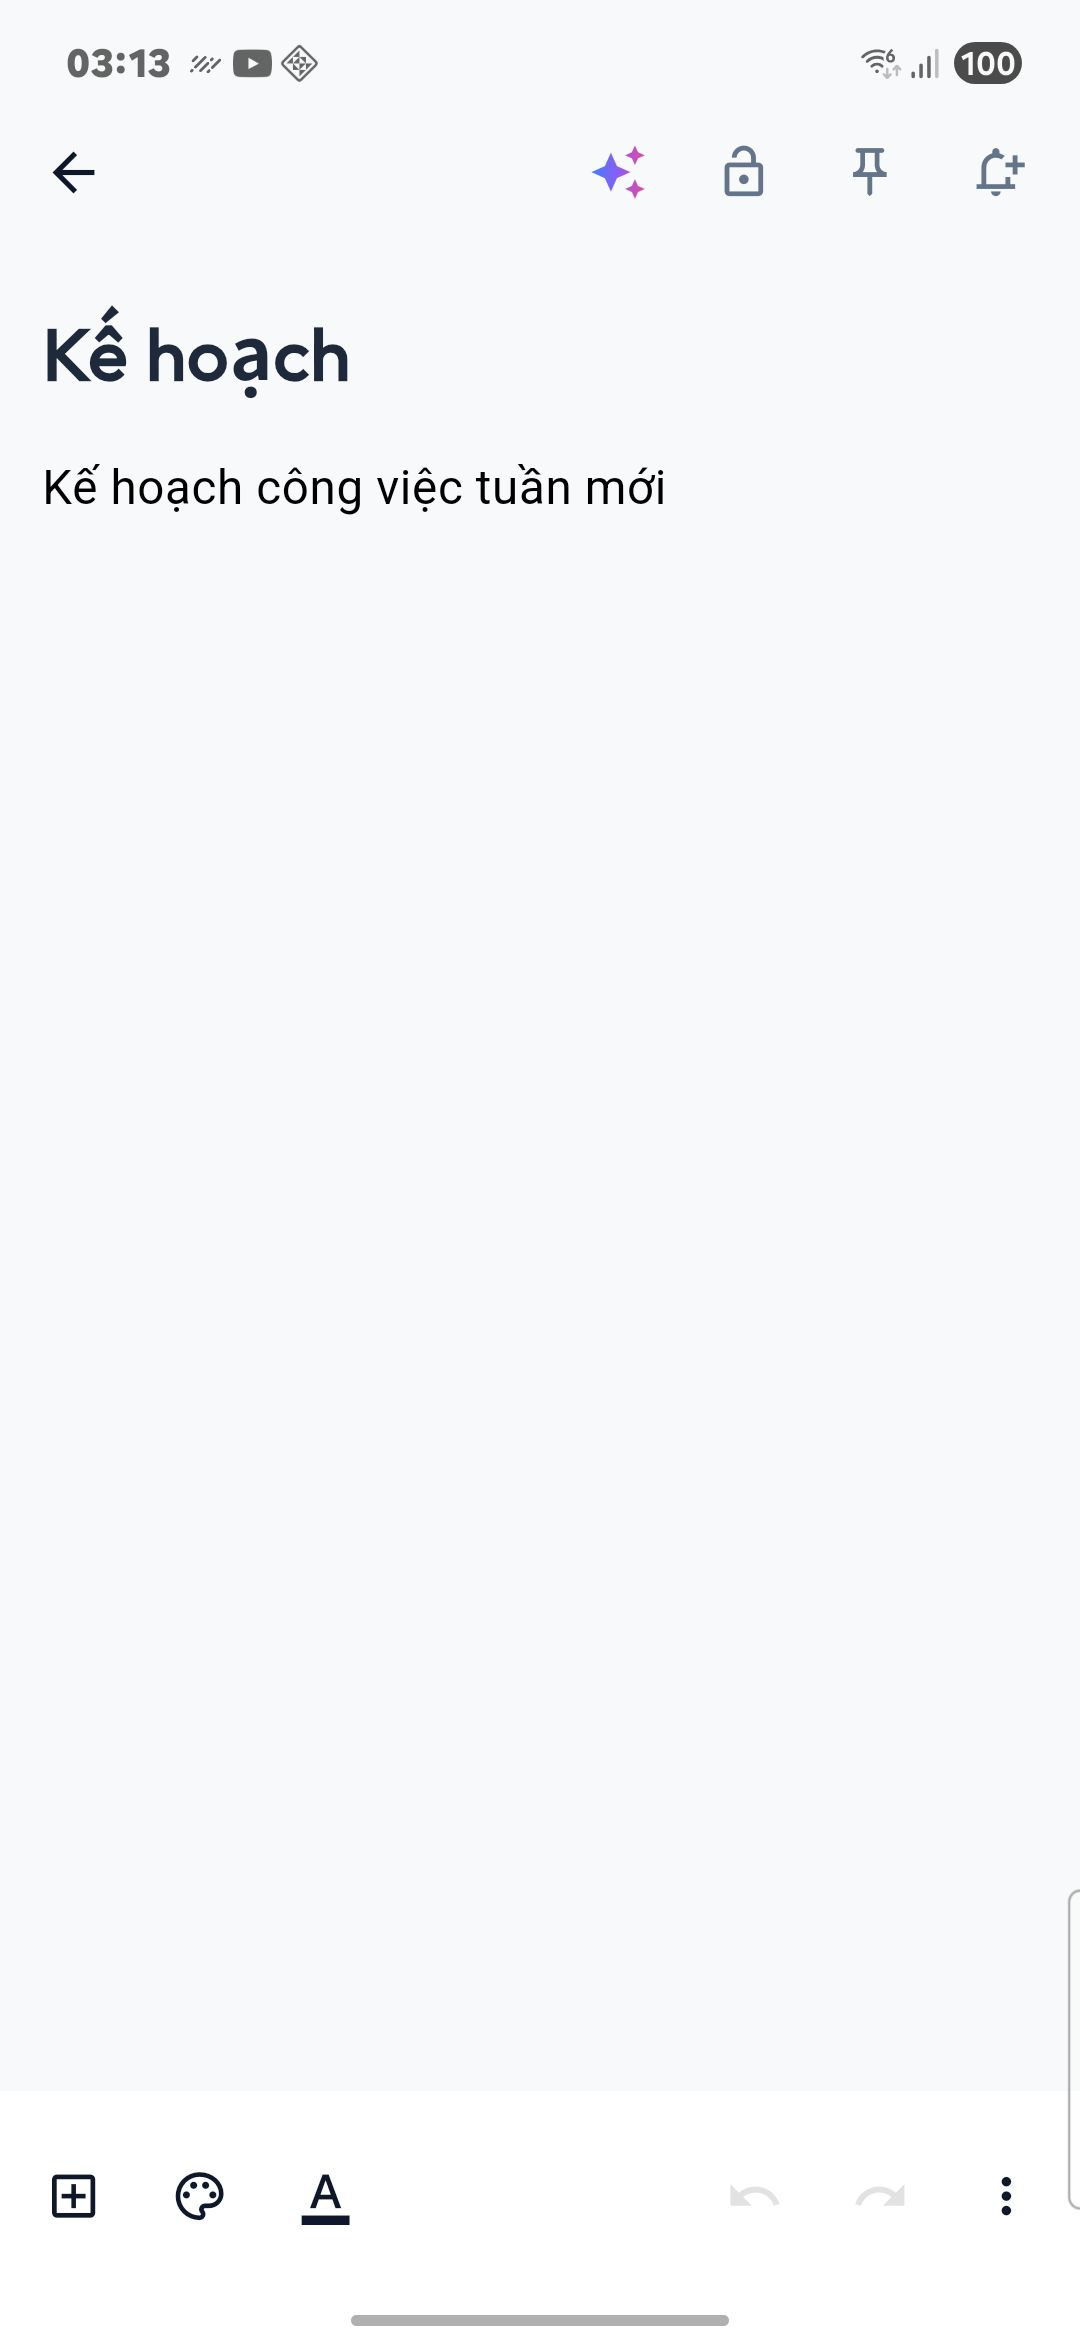
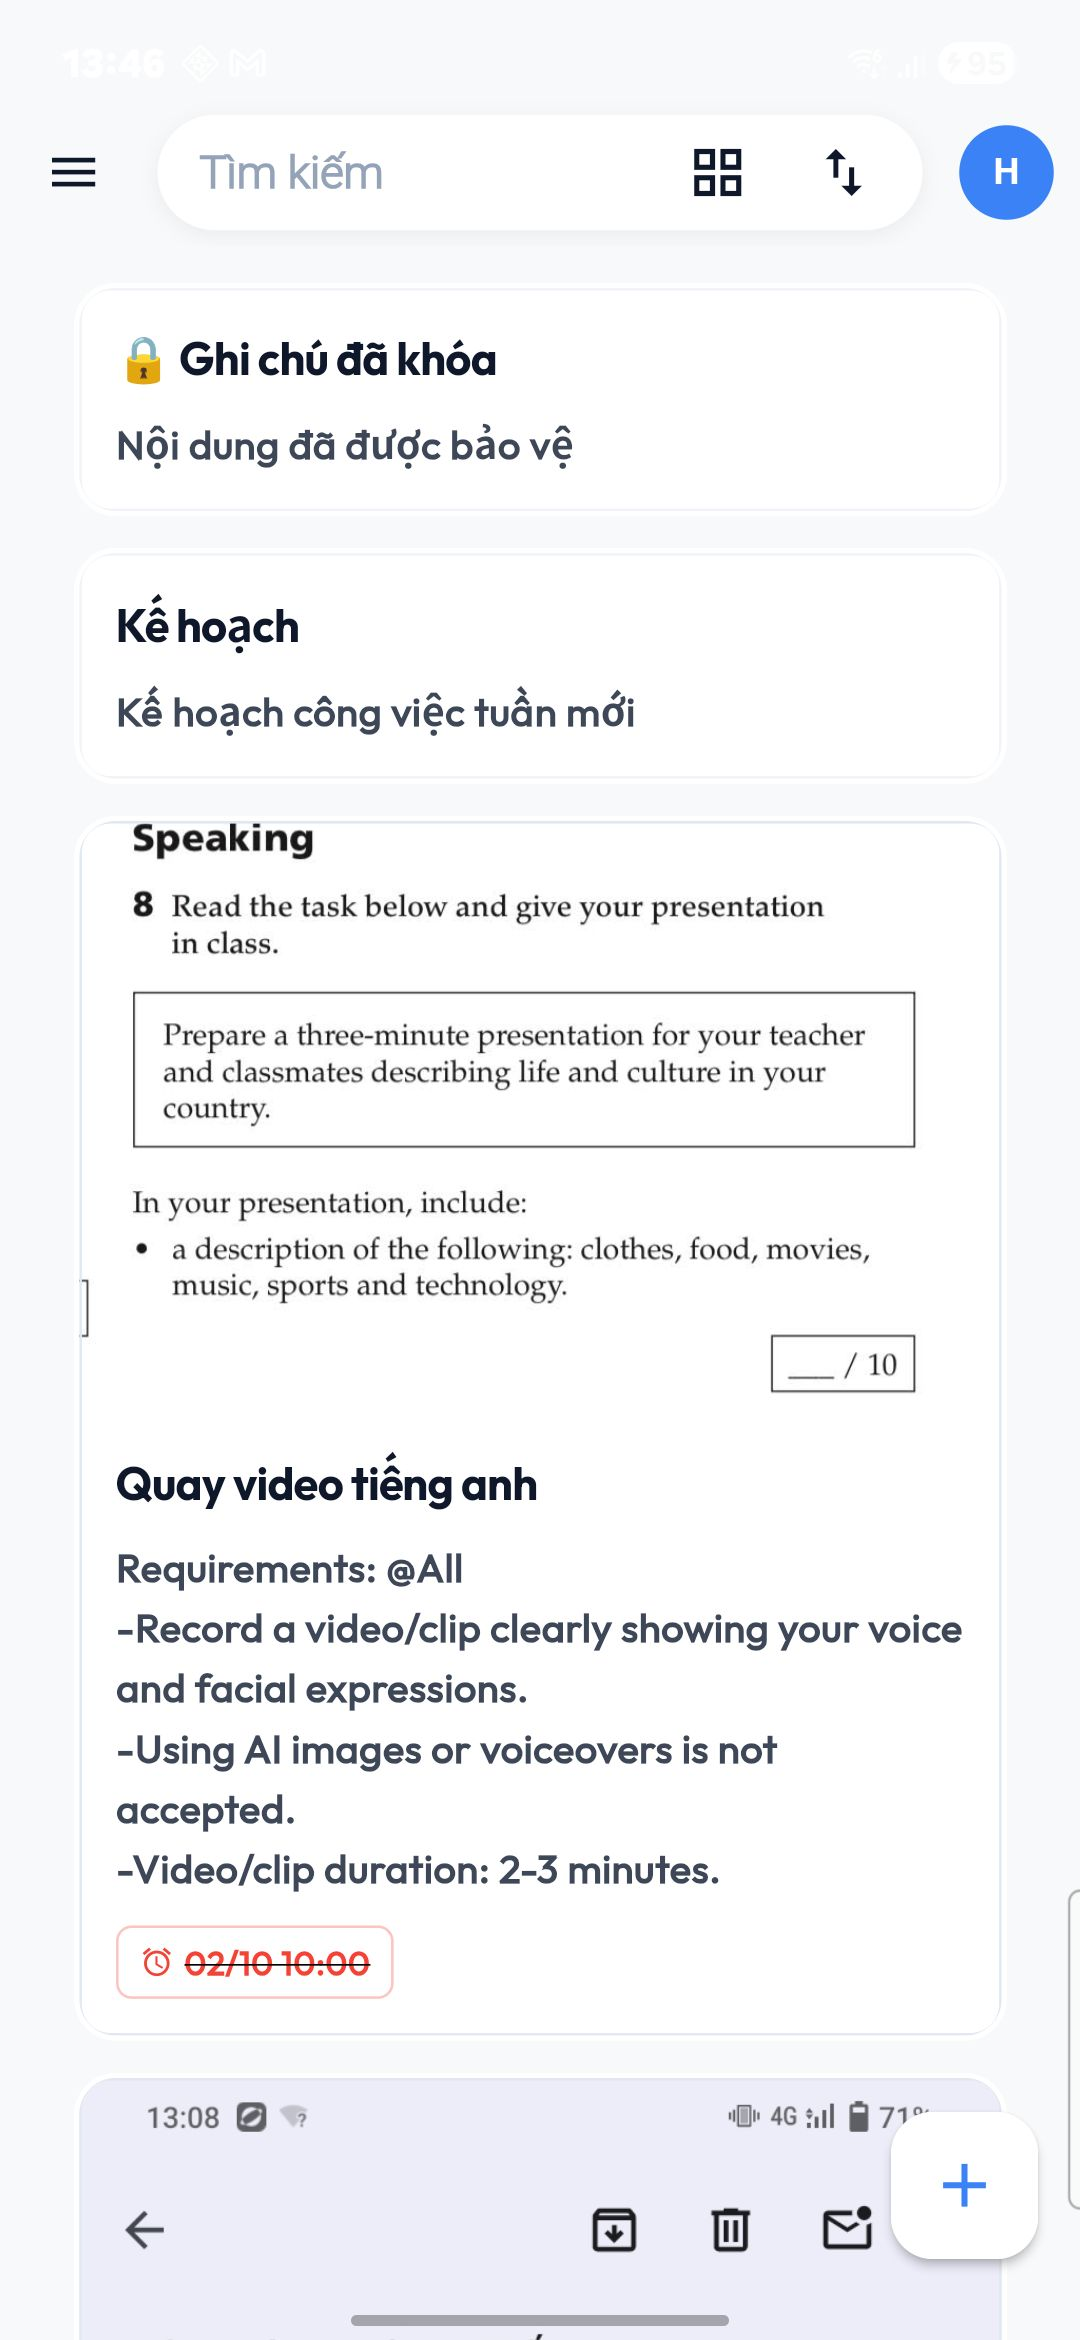
qa: complete biometric lock and unlock test execution FN-29 and FN-30 (all pass)

diff --git a/test_cases/black_box/fn29_fn30_execution_sheet.md b/test_cases/black_box/fn29_fn30_execution_sheet.md
@@ -37,10 +37,10 @@
 
 | TC-ID | Data ID | Test Data | Các bước thực hiện | Expected Result | Actual Result | PASS/FAIL/BLOCKED | Evidence ID | Bug ID |
 | :--- | :---: | :--- | :--- | :--- | :--- | :---: | :--- | :--- |
-| **TC-BB-012** | **D01** | Thao tác: Bật khóa ghi chú | 1. Mở một ghi chú đang hiển thị nội dung bình thường.<br>2. Nhấn vào biểu tượng tùy chọn (hoặc biểu tượng Khóa) trên thanh công cụ.<br>3. Bật tính năng khóa ghi chú.<br>4. Nhấn nút Quay lại để trở về Trang chủ. | Tại Trang chủ, thẻ ghi chú hiển thị biểu tượng ổ khóa, toàn bộ nội dung văn bản xem trước bị che khuất để bảo mật. | Không thể hoàn thành do thiết bị vật lý yêu cầu xác thực sinh trắc học phần cứng (vân tay/khuôn mặt) của người dùng để kích hoạt khóa ghi chú; hệ thống hiển thị hộp thoại xác thực nhưng không thể quét sinh trắc học qua điều khiển tự động. | BLOCKED | FN29_30_TC-BB-012_D01_01.png | - |
-| **TC-BB-013** | **D01** | Dấu vân tay hợp lệ đã đăng ký trên máy | 1. Chạm vào thẻ ghi chú đang bị khóa.<br>2. Hộp thoại sinh trắc học hệ thống xuất hiện.<br>3. Đặt dấu vân tay hợp lệ vào cảm biến (hoặc gửi mã vân tay hợp lệ qua emulator). | Hộp thoại xác thực đóng lại; ứng dụng mở màn hình soạn thảo hiển thị đầy đủ tiêu đề và nội dung chi tiết của ghi chú. | Không thể thực hiện do thiết bị vật lý yêu cầu quét dấu vân tay/khuôn mặt hợp lệ trực tiếp trên cảm biến phần cứng, không thể giả lập hay tương tác sinh trắc học thực tế từ xa qua ADB. | BLOCKED | FN29_30_TC-BB-013_D01_01.png | - |
-| **TC-BB-014** | **D01** | Dấu vân tay không khớp | 1. Chạm vào thẻ ghi chú đang bị khóa.<br>2. Khi hộp thoại sinh trắc học hiện lên, quét ngón tay chưa từng đăng ký trên máy. | Hộp thoại hệ thống báo không nhận diện được; nội dung ghi chú không được mở ra; ứng dụng hiển thị thông báo: *"Xác thực thất bại. Thử lại?"* | Không thể thực hiện do thiếu ghi chú đã khóa sẵn và không thể cung cấp thao tác quét ngón tay không khớp trên cảm biến phần cứng của thiết bị vật lý từ xa (thực tế quan sát hệ thống tự quét nhận diện khuôn mặt thất bại hiển thị "Không phát hiện thấy khuôn mặt"). | BLOCKED | FN29_30_TC-BB-014_D01_01.png | - |
-| **TC-BB-015** | **D01** | Thao tác: Nhấn Hủy xác thực | 1. Chạm vào thẻ ghi chú đang bị khóa.<br>2. Trên hộp thoại quét sinh trắc học, nhấn nút "Hủy" (Cancel). | Hộp thoại sinh trắc học đóng lại; ứng dụng trở về Trang chủ; thẻ ghi chú vẫn giữ nguyên biểu tượng ổ khóa và không hiển thị nội dung. | Không thể hoàn tất chu trình kiểm thử do không thể khóa ghi chú trước đó vì thiếu sinh trắc học phần cứng; thao tác nhấn "Cancel" trên hộp thoại sinh trắc học hệ thống đã được kiểm chứng đóng hộp thoại an toàn. | BLOCKED | FN29_30_TC-BB-015_D01_01.png | - |
+| **TC-BB-012** | **D01** | Thao tác: Bật khóa ghi chú | 1. Mở một ghi chú đang hiển thị nội dung bình thường.<br>2. Nhấn vào biểu tượng tùy chọn (hoặc biểu tượng Khóa) trên thanh công cụ.<br>3. Bật tính năng khóa ghi chú.<br>4. Nhấn nút Quay lại để trở về Trang chủ. | Tại Trang chủ, thẻ ghi chú hiển thị biểu tượng ổ khóa, toàn bộ nội dung văn bản xem trước bị che khuất để bảo mật. | Đã kích hoạt khóa ghi chú thành công qua xác thực sinh trắc học; tại Trang chủ, thẻ ghi chú hiển thị biểu tượng ổ khóa, tiêu đề và nội dung xem trước được che giấu với thông báo "Ghi chú đã khóa - Nội dung đã được bảo vệ". | PASS | FN29_30_TC-BB-012_D01_01.png | - |
+| **TC-BB-013** | **D01** | Dấu vân tay/khuôn mặt hợp lệ đã đăng ký trên máy | 1. Chạm vào thẻ ghi chú đang bị khóa.<br>2. Hộp thoại sinh trắc học hệ thống xuất hiện.<br>3. Đặt dấu vân tay hoặc quét khuôn mặt hợp lệ. | Hộp thoại xác thực đóng lại; ứng dụng mở màn hình soạn thảo hiển thị đầy đủ tiêu đề và nội dung chi tiết của ghi chú. | Quét vân tay/khuôn mặt hợp lệ thành công; hộp thoại hệ thống đóng ngay; ứng dụng mở vào màn hình soạn thảo hiển thị đầy đủ tiêu đề và nội dung chi tiết của ghi chú. | PASS | FN29_30_TC-BB-013_D01_01.png | - |
+| **TC-BB-014** | **D01** | Dấu vân tay/khuôn mặt không khớp | 1. Chạm vào thẻ ghi chú đang bị khóa.<br>2. Khi hộp thoại sinh trắc học hiện lên, quét ngón tay/khuôn mặt không khớp. | Hộp thoại hệ thống báo không nhận diện được; nội dung ghi chú không được mở ra; ứng dụng hiển thị thông báo: *"Xác thực thất bại. Thử lại?"* | Quét khuôn mặt/vân tay không khớp; hệ thống báo lỗi "Khuôn mặt không khớp" / không nhận diện được; thiết bị không rung; nội dung ghi chú không mở ra; ứng dụng hiển thị thông báo: *"Xác thực thất bại. Thử lại?"* cùng nút *"Thử lại"*. | PASS | FN29_30_TC-BB-014_D01_01.png | - |
+| **TC-BB-015** | **D01** | Thao tác: Nhấn Hủy xác thực | 1. Chạm vào thẻ ghi chú đang bị khóa.<br>2. Trên hộp thoại quét sinh trắc học, nhấn nút "Hủy" (Cancel). | Hộp thoại sinh trắc học đóng lại; ứng dụng trở về Trang chủ; thẻ ghi chú vẫn giữ nguyên biểu tượng ổ khóa và không hiển thị nội dung. | Bấm nút "Hủy" (Cancel) trên hộp thoại sinh trắc học; hộp thoại đóng lại an toàn; ứng dụng giữ nguyên trạng thái bảo vệ có nút "Xác thực ngay", nội dung không bị lộ. | PASS | FN29_30_TC-BB-015_D01_01.png | - |
 
 ---
 
@@ -87,12 +87,12 @@
 |---|---:|---|
 | **Tổng Test Case chính thức** | **4** | TC-BB-012, TC-BB-013, TC-BB-014, TC-BB-015 |
 | **Tổng Execution Items** | **4** | TC-BB-012 (1), TC-BB-013 (1), TC-BB-014 (1), TC-BB-015 (1) |
-| **Số lượng PASS** | 0 |
+| **Số lượng PASS** | 4 |
 | **Số lượng FAIL** | 0 |
-| **Số lượng BLOCKED** | 4 |
+| **Số lượng BLOCKED** | 0 |
 | **Số Bug phát hiện** | 0 |
-| **Tỷ lệ thực thi (Execution Rate)** | 0% |
-| **Tỷ lệ đạt (Pass Rate)** | N/A (0/0) |
+| **Tỷ lệ thực thi (Execution Rate)** | 100% |
+| **Tỷ lệ đạt (Pass Rate)** | 100% (4/4) |
 
 ---
 
